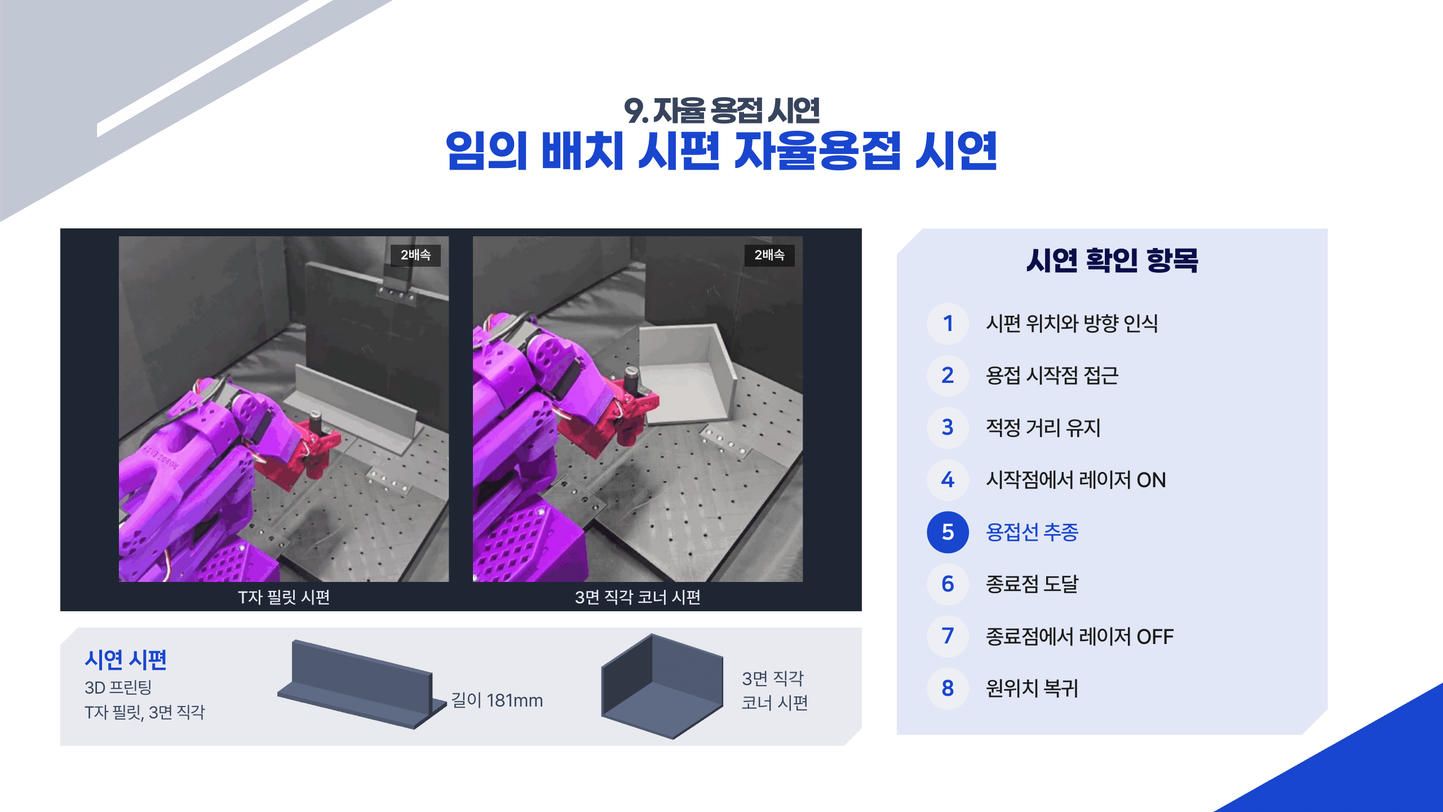
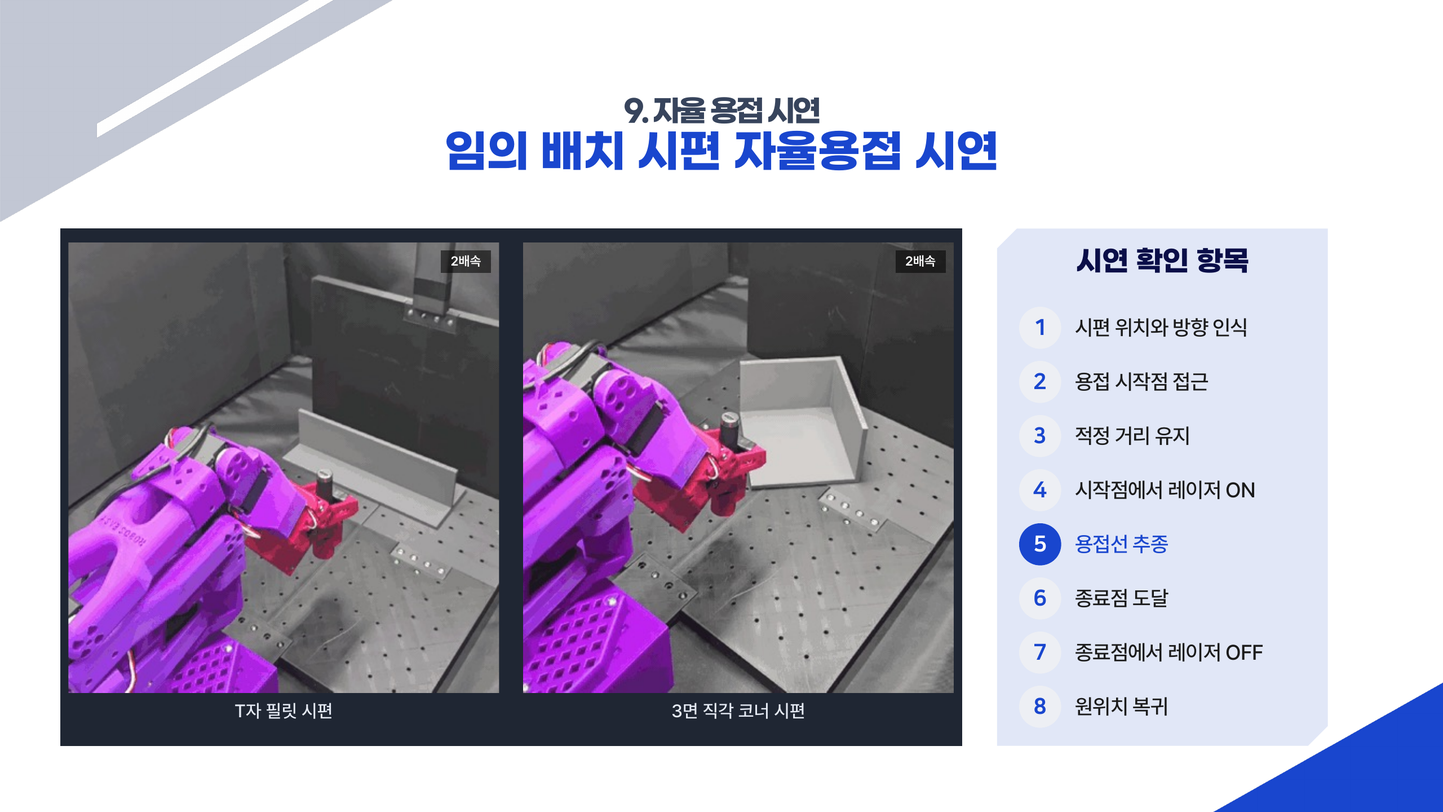
표지와 소개 페이지에 팀 이름 '뉴트로 아크' 추가, 시연 장(22장) 영상 확대
22장은 아래 시연 시편 칸을 빼고 그 자리까지 영상을 키워 영상 위치(오버레이)도 새로 맞춤.

diff --git a/index.html b/index.html
@@ -3,7 +3,7 @@
 <head>
 <meta charset="utf-8">
 <meta name="viewport" content="width=device-width, initial-scale=1">
-<title>숙련 용접사 패턴을 모사한 강구조물 용접 로봇 | 2026 IRC 지능로봇대회</title>
+<title>숙련 용접사 패턴을 모사한 강구조물 용접 로봇 | 팀 뉴트로 아크 | 2026 IRC 지능로봇대회</title>
 <style>
   html, body { margin: 0; height: 100%; background: #111; overflow: hidden; }
   body { font-family: -apple-system, "Apple SD Gothic Neo", sans-serif; }
@@ -49,58 +49,58 @@
 </head>
 <body>
 <main class="stage" id="stage">
-  <img class="slide" src="deck/final/01.png?v=11131055" alt="2026 IRC 지능로봇대회 매니퓰레이터 종목. 거친 현장의 혁신. 숙련 용접사 패턴을 모사한 강구조물 용접 로봇. 손태산, 김광빈, 김동희, 왕혜영">
-  <img class="slide" src="deck/final/02.png?v=11131055" alt="목차" loading="lazy">
-  <img class="slide" src="deck/final/03.png?v=11131055" alt="1. 프로젝트 개요. 숙련 용접사 패턴을 모사한 강구조물 용접 로봇. 왼쪽은 코너 시편의 용접선을 초록 레이저로 따라가는 로봇 사진" loading="lazy">
-  <img class="slide" src="deck/final/04.png?v=11131055" alt="2. 프로젝트 수행 배경: 정밀 특수공정 용접의 품질, 인력, 안전 위기. WPS 필수 제어 변수 20개 이상, 숙련 의존 정밀공정, 연령별 인력(20대 11만, 30대 27만, 40대 45만, 50대 65만, 60대 이상 46만), 용접사 평균 55세, 시공 부실과 안전 사고" loading="lazy">
-  <img class="slide" src="deck/final/05.png?v=11131055" alt="2. 프로젝트 수행 배경: 강재 적용 확대와 현장 용접 경쟁력. 고부가가치 강재 개발, 현장 용접과 시공성 확보, 적용 경쟁력 향상, 강재 적용시장 확대. 강교량 강주탑 단면도와 BOX, 강구조 건축 벽체 현장 용접 사진" loading="lazy">
-  <img class="slide" src="deck/final/06.png?v=11131055" alt="2. 프로젝트 수행 배경: 건설현장 자동 용접의 현재 기술. 수직 타워 레일식(상용화), 수평 타워 레일식(현장 적용), 원자력 압력배관 오비탈 용접(현장 적용), 수직 자동 TIG(개발 진행 중)" loading="lazy">
-  <img class="slide" src="deck/final/07.png?v=11131055" alt="2. 프로젝트 수행 배경: 센서 기반 적응형(Adaptive) 용접으로 발전. 레이저 센싱, 형상 측정, 경로 보정, 정밀 용접. 협동로봇과 레이저 센서, 레일식 수직 자동용접 현장 사진" loading="lazy">
-  <img class="slide" src="deck/final/08.png?v=11131055" alt="2. 프로젝트 수행 배경: 왜 Physical AI인가. 센서는 정밀하게 측정하고 Physical AI는 복합 상황을 판단. 한계는 두꺼운 다층 용접의 다음 패스 판단, 전체 상황 인식과 용접 구역 판단" loading="lazy">
-  <img class="slide" src="deck/final/09.png?v=11131055" alt="2. 프로젝트 수행 배경: Physical AI, 이제 건설현장으로. 기존 VLA 연구는 정형화된 실내 환경, 우리가 도전하는 건설현장은 비정형 강구조물 용접. 열악한 환경, 기술개발의 사각지대" loading="lazy">
-  <img class="slide" src="deck/final/10.png?v=11131055" alt="2. 프로젝트 수행 배경: 숙련 기술의 단절과 기존 자동용접의 한계. 실내 철골 제작공장 자동용접 사진, 강교량 야외 건설현장 사진" loading="lazy">
-  <img class="slide" src="deck/final/11.png?v=11131055" alt="3. 프로젝트 수행 필요성: 숙련 기술의 계승과 비정형 환경 대응을 위한 자율용접 기술의 필요성" loading="lazy">
+  <img class="slide" src="deck/final/01.png?v=11131114" alt="2026 IRC 지능로봇대회 매니퓰레이터 종목. 거친 현장의 혁신. 숙련 용접사 패턴을 모사한 강구조물 용접 로봇. 팀 뉴트로 아크: 손태산, 김광빈, 김동희, 왕혜영">
+  <img class="slide" src="deck/final/02.png?v=11131114" alt="목차" loading="lazy">
+  <img class="slide" src="deck/final/03.png?v=11131114" alt="1. 프로젝트 개요. 숙련 용접사 패턴을 모사한 강구조물 용접 로봇. 왼쪽은 코너 시편의 용접선을 초록 레이저로 따라가는 로봇 사진" loading="lazy">
+  <img class="slide" src="deck/final/04.png?v=11131114" alt="2. 프로젝트 수행 배경: 정밀 특수공정 용접의 품질, 인력, 안전 위기. WPS 필수 제어 변수 20개 이상, 숙련 의존 정밀공정, 연령별 인력(20대 11만, 30대 27만, 40대 45만, 50대 65만, 60대 이상 46만), 용접사 평균 55세, 시공 부실과 안전 사고" loading="lazy">
+  <img class="slide" src="deck/final/05.png?v=11131114" alt="2. 프로젝트 수행 배경: 강재 적용 확대와 현장 용접 경쟁력. 고부가가치 강재 개발, 현장 용접과 시공성 확보, 적용 경쟁력 향상, 강재 적용시장 확대. 강교량 강주탑 단면도와 BOX, 강구조 건축 벽체 현장 용접 사진" loading="lazy">
+  <img class="slide" src="deck/final/06.png?v=11131114" alt="2. 프로젝트 수행 배경: 건설현장 자동 용접의 현재 기술. 수직 타워 레일식(상용화), 수평 타워 레일식(현장 적용), 원자력 압력배관 오비탈 용접(현장 적용), 수직 자동 TIG(개발 진행 중)" loading="lazy">
+  <img class="slide" src="deck/final/07.png?v=11131114" alt="2. 프로젝트 수행 배경: 센서 기반 적응형(Adaptive) 용접으로 발전. 레이저 센싱, 형상 측정, 경로 보정, 정밀 용접. 협동로봇과 레이저 센서, 레일식 수직 자동용접 현장 사진" loading="lazy">
+  <img class="slide" src="deck/final/08.png?v=11131114" alt="2. 프로젝트 수행 배경: 왜 Physical AI인가. 센서는 정밀하게 측정하고 Physical AI는 복합 상황을 판단. 한계는 두꺼운 다층 용접의 다음 패스 판단, 전체 상황 인식과 용접 구역 판단" loading="lazy">
+  <img class="slide" src="deck/final/09.png?v=11131114" alt="2. 프로젝트 수행 배경: Physical AI, 이제 건설현장으로. 기존 VLA 연구는 정형화된 실내 환경, 우리가 도전하는 건설현장은 비정형 강구조물 용접. 열악한 환경, 기술개발의 사각지대" loading="lazy">
+  <img class="slide" src="deck/final/10.png?v=11131114" alt="2. 프로젝트 수행 배경: 숙련 기술의 단절과 기존 자동용접의 한계. 실내 철골 제작공장 자동용접 사진, 강교량 야외 건설현장 사진" loading="lazy">
+  <img class="slide" src="deck/final/11.png?v=11131114" alt="3. 프로젝트 수행 필요성: 숙련 기술의 계승과 비정형 환경 대응을 위한 자율용접 기술의 필요성" loading="lazy">
   <div class="slide">
-    <img src="deck/final/12.png?v=11131055" alt="4. 개발 목표 및 차별성: 룰 베이스를 넘어 숙련 행동 학습으로. OPTi3 용접로봇 전시 시연과 실제 아크 용접 영상, 기존 룰 베이스와 본 프로젝트 비교, 최종 개발 목표" loading="lazy">
+    <img src="deck/final/12.png?v=11131114" alt="4. 개발 목표 및 차별성: 룰 베이스를 넘어 숙련 행동 학습으로. OPTi3 용접로봇 전시 시연과 실제 아크 용접 영상, 기존 룰 베이스와 본 프로젝트 비교, 최종 개발 목표" loading="lazy">
     <!-- PPT 12장 영상 자리(x 60/468, y 270, 392×294pt / 1440×810pt)에 맞춰 올린 6초~20초 구간 GIF -->
-    <img class="clip" style="left:4.1667%; top:33.333%; width:27.222%; height:36.296%;" src="deck/img/opti3_demo.gif?v=11131055" alt="OPTi3 전시 시연 6초에서 20초 구간" loading="lazy">
-    <img class="clip" style="left:32.5%; top:33.333%; width:27.222%; height:36.296%;" src="deck/img/opti3_arc.gif?v=11131055" alt="OPTi3 실제 아크 용접 6초에서 20초 구간" loading="lazy">
+    <img class="clip" style="left:4.1667%; top:33.333%; width:27.222%; height:36.296%;" src="deck/img/opti3_demo.gif?v=11131114" alt="OPTi3 전시 시연 6초에서 20초 구간" loading="lazy">
+    <img class="clip" style="left:32.5%; top:33.333%; width:27.222%; height:36.296%;" src="deck/img/opti3_arc.gif?v=11131114" alt="OPTi3 실제 아크 용접 6초에서 20초 구간" loading="lazy">
   </div>
-  <img class="slide" src="deck/final/13.png?v=11131055" alt="5. 개발 대상 및 자율 작업 시나리오: 수평 접합선에 대응하는 자율용접 작업 구현. 3면 직각 시편과 T형 필릿 시편" loading="lazy">
-  <img class="slide" src="deck/final/14.png?v=11131055" alt="6. 시스템 구성 및 하드웨어 설계: 자율용접 로봇 시스템 아키텍처. 영상은 V4L2로 캡처해 ZMQ로 나눠 주고, YOLO가 판 종류를 판정해 ACT 정책을 고르며 용접선 끝점을 표시함. 그 영상과 손목 영상으로 ACT 정책이 다음 동작을 냄. 손 검출 시 정지, 진행 표시와 영상은 FastAPI 웹 대시보드로" loading="lazy">
-  <img class="slide" src="deck/final/15.png?v=11131055" alt="6. 시스템 구성 및 하드웨어 설계: 역할을 나눈 세 가지 AI. YOLO 용접선 검출(판 종류 판정과 정책 선택, 끝점 표시), ACT 모방학습(포스코이앤씨 손태산 용접기술사가 텔레오퍼레이션으로 쌓은 용접 행동 데이터로 학습, 판 종류별 정책으로 제어), 손 검출 인터록(안전)" loading="lazy">
-  <img class="slide" src="deck/final/16.png?v=11131055" alt="6. 시스템 구성 및 하드웨어 설계: 하드웨어 설계. SolidWorks 조립 기반 6축 매니퓰레이터와 레이저 엔드이펙터 렌더, 엔드이펙터 CAD, 매니퓰레이터, 엔드이펙터, 카메라, 개선 내용" loading="lazy">
-  <img class="slide" src="deck/final/17.png?v=11131055" alt="6. 시스템 구성 및 하드웨어 설계: 직접 개선한 기술. 엔드이펙터 설계 변천 v1, v2, v3, 최종 레이저 일체형" loading="lazy">
+  <img class="slide" src="deck/final/13.png?v=11131114" alt="5. 개발 대상 및 자율 작업 시나리오: 수평 접합선에 대응하는 자율용접 작업 구현. 3면 직각 시편과 T형 필릿 시편" loading="lazy">
+  <img class="slide" src="deck/final/14.png?v=11131114" alt="6. 시스템 구성 및 하드웨어 설계: 자율용접 로봇 시스템 아키텍처. 영상은 V4L2로 캡처해 ZMQ로 나눠 주고, YOLO가 판 종류를 판정해 ACT 정책을 고르며 용접선 끝점을 표시함. 그 영상과 손목 영상으로 ACT 정책이 다음 동작을 냄. 손 검출 시 정지, 진행 표시와 영상은 FastAPI 웹 대시보드로" loading="lazy">
+  <img class="slide" src="deck/final/15.png?v=11131114" alt="6. 시스템 구성 및 하드웨어 설계: 역할을 나눈 세 가지 AI. YOLO 용접선 검출(판 종류 판정과 정책 선택, 끝점 표시), ACT 모방학습(포스코이앤씨 손태산 용접기술사가 텔레오퍼레이션으로 쌓은 용접 행동 데이터로 학습, 판 종류별 정책으로 제어), 손 검출 인터록(안전)" loading="lazy">
+  <img class="slide" src="deck/final/16.png?v=11131114" alt="6. 시스템 구성 및 하드웨어 설계: 하드웨어 설계. SolidWorks 조립 기반 6축 매니퓰레이터와 레이저 엔드이펙터 렌더, 엔드이펙터 CAD, 매니퓰레이터, 엔드이펙터, 카메라, 개선 내용" loading="lazy">
+  <img class="slide" src="deck/final/17.png?v=11131114" alt="6. 시스템 구성 및 하드웨어 설계: 직접 개선한 기술. 엔드이펙터 설계 변천 v1, v2, v3, 최종 레이저 일체형" loading="lazy">
   <div class="slide">
-    <img src="deck/final/18.png?v=11131055" alt="7. 실시간 작업 모니터링: 웹 대시보드로 보는 영상과 로봇 상태" loading="lazy">
+    <img src="deck/final/18.png?v=11131114" alt="7. 실시간 작업 모니터링: 웹 대시보드로 보는 영상과 로봇 상태" loading="lazy">
     <!-- PPT 18장 대시보드 카메라 칸에 올린 실제 화면 녹화 GIF(코너 시편, 3배속) -->
-    <img class="clip" style="left:4.7222%; top:35.0617%; width:25.9722%; height:25.9259%;" src="deck/img/corner_dash_top.gif?v=11131055" alt="상단 카메라 실제 화면. 코너 시편 용접선 두 개가 파란색에서 빨간색으로 바뀜, 3배속" loading="lazy">
-    <img class="clip" style="left:31.8056%; top:35.0617%; width:25.9722%; height:25.9259%;" src="deck/img/corner_dash_wrist.gif?v=11131055" alt="손목 카메라 실제 화면. 시편 위 초록 레이저 점, 3배속" loading="lazy">
+    <img class="clip" style="left:4.7222%; top:35.0617%; width:25.9722%; height:25.9259%;" src="deck/img/corner_dash_top.gif?v=11131114" alt="상단 카메라 실제 화면. 코너 시편 용접선 두 개가 파란색에서 빨간색으로 바뀜, 3배속" loading="lazy">
+    <img class="clip" style="left:31.8056%; top:35.0617%; width:25.9722%; height:25.9259%;" src="deck/img/corner_dash_wrist.gif?v=11131114" alt="손목 카메라 실제 화면. 시편 위 초록 레이저 점, 3배속" loading="lazy">
     <span class="camlabel" style="left:4.7222%; top:57.5309%; width:25.9722%; height:3.4568%;">상단 카메라<b>LIVE</b></span>
     <span class="camlabel" style="left:31.8056%; top:57.5309%; width:25.9722%; height:3.4568%;">손목 카메라<b>LIVE</b></span>
     <span class="tag" style="left:26.6667%; top:36.0494%; width:3.4722%; height:2.7160%;">3배속</span>
     <span class="tag" style="left:53.7500%; top:36.0494%; width:3.4722%; height:2.7160%;">3배속</span>
   </div>
   <div class="slide">
-    <img src="deck/final/19.png?v=11131055" alt="7. 실시간 작업 모니터링: YOLO 용접선 검출과 진행 표시, 성공 판정 기준" loading="lazy">
+    <img src="deck/final/19.png?v=11131114" alt="7. 실시간 작업 모니터링: YOLO 용접선 검출과 진행 표시, 성공 판정 기준" loading="lazy">
     <!-- PPT 19장 가운데 칸(진행 중)에 올린 2배속 GIF -->
-    <img class="clip" style="left:34.0278%; top:28.1481%; width:27.7778%; height:37.0370%;" src="deck/img/t_yolo_progress.gif?v=11131055" alt="T자 시편 상단 카메라 화면. 레이저가 지나간 구간의 용접선이 파란색에서 빨간색으로 바뀜, 2배속" loading="lazy">
+    <img class="clip" style="left:34.0278%; top:28.1481%; width:27.7778%; height:37.0370%;" src="deck/img/t_yolo_progress.gif?v=11131114" alt="T자 시편 상단 카메라 화면. 레이저가 지나간 구간의 용접선이 파란색에서 빨간색으로 바뀜, 2배속" loading="lazy">
     <span class="tag" style="left:57.7778%; top:29.1358%; width:3.4722%; height:2.7160%;">2배속</span>
   </div>
-  <img class="slide" src="deck/final/20.png?v=11131055" alt="7. 실시간 작업 모니터링: YOLO 추론 최적화로 2.1배 가속. PyTorch에서 ONNX, TensorRT FP16 변환, 1회 추론 시간 중앙값 8.1 ms에서 3.8 ms, 정확도 유지, ACT 정책 변환 예정" loading="lazy">
-  <img class="slide" src="deck/final/21.png?v=11131055" alt="8. ACT 기반 모방학습 및 자율 제어: 용접기술사의 텔레오퍼레이션에서 자율 실행까지. 포스코이앤씨 손태산 용접기술사가 텔레오퍼레이션으로 직접 쌓은 용접 행동 데이터로 학습. 텔레오퍼레이션, 기록, 판 종류별 ACT 학습, 자율 실행. ACT는 동작을 묶음으로 예측" loading="lazy">
+  <img class="slide" src="deck/final/20.png?v=11131114" alt="7. 실시간 작업 모니터링: YOLO 추론 최적화로 2.1배 가속. PyTorch에서 ONNX, TensorRT FP16 변환, 1회 추론 시간 중앙값 8.1 ms에서 3.8 ms, 정확도 유지, ACT 정책 변환 예정" loading="lazy">
+  <img class="slide" src="deck/final/21.png?v=11131114" alt="8. ACT 기반 모방학습 및 자율 제어: 용접기술사의 텔레오퍼레이션에서 자율 실행까지. 포스코이앤씨 손태산 용접기술사가 텔레오퍼레이션으로 직접 쌓은 용접 행동 데이터로 학습. 텔레오퍼레이션, 기록, 판 종류별 ACT 학습, 자율 실행. ACT는 동작을 묶음으로 예측" loading="lazy">
   <div class="slide">
-    <img src="deck/final/22.png?v=11131055" alt="9. 자율 용접 시연: 임의 배치 시편 자율용접 시연, 확인 항목 8개, 시연 시편(T자 필릿, 3면 직각)" loading="lazy">
+    <img src="deck/final/22.png?v=11131114" alt="9. 자율 용접 시연: 임의 배치 시편 자율용접 시연. T자 필릿 시편과 3면 직각 코너 시편 영상(2배속), 시연 확인 항목 8개" loading="lazy">
     <!-- PPT 22장 시연 영상 자리(1440×810pt 기준)에 올린 2배속 GIF와 배속 표시 -->
-    <img class="clip" style="left:8.2509%; top:29.1358%; width:22.8602%; height:42.4691%;" src="deck/img/t_demo.gif?v=11131055" alt="T자 필릿 시편 자율용접 시연, 2배속" loading="lazy">
-    <img class="clip" style="left:32.7778%; top:29.1358%; width:22.8602%; height:42.4691%;" src="deck/img/corner_demo.gif?v=11131055" alt="3면 직각 코너 시편 자율용접 시연, 2배속" loading="lazy">
-    <span class="tag" style="left:27.0833%; top:30.1235%; width:3.4722%; height:2.7160%;">2배속</span>
-    <span class="tag" style="left:51.6102%; top:30.1235%; width:3.4722%; height:2.7160%;">2배속</span>
+    <img class="clip" style="left:4.7455%; top:29.8765%; width:29.8379%; height:55.4321%;" src="deck/img/t_demo.gif?v=11131114" alt="T자 필릿 시편 자율용접 시연, 2배속" loading="lazy">
+    <img class="clip" style="left:36.2500%; top:29.8765%; width:29.8379%; height:55.4321%;" src="deck/img/corner_demo.gif?v=11131114" alt="3면 직각 코너 시편 자율용접 시연, 2배속" loading="lazy">
+    <span class="tag" style="left:30.5556%; top:30.8642%; width:3.4722%; height:2.7160%;">2배속</span>
+    <span class="tag" style="left:62.0601%; top:30.8642%; width:3.4722%; height:2.7160%;">2배속</span>
   </div>
-  <img class="slide" src="deck/final/23.png?v=11131055" alt="9. 자율 용접 시연: 성공 판정 기준. 시편 인식, 시작점 접근, 토치 거리 유지, 레이저 ON, 용접선 추종, 종료점 도달, 레이저 OFF, 원위치 복귀의 8개 항목을 모두 통과해야 성공. 용접선 추종은 경로 이탈 5mm 이하와 용접선의 90% 이상이 빨간색으로 바뀌는 것" loading="lazy">
-  <img class="slide" src="deck/final/24.png?v=11131055" alt="9. 자율 용접 시연: 시연 결과. 학습한 배치 40회 중 39회(97.5%), 처음 보는 배치 40회 중 37회(92.5%) 성공. 성공 기준은 8개 판정 항목을 모두 통과한 시도. 인터록 반응 시간 최대 약 100 ms(계산값)" loading="lazy">
-  <img class="slide" src="deck/final/25.png?v=11131055" alt="10. 결론 및 향후 과제" loading="lazy">
-  <img class="slide" src="deck/final/26.png?v=11131055" alt="10. 결론 및 향후 과제: 한계점과 향후 과제, 홈페이지 QR 코드" loading="lazy">
+  <img class="slide" src="deck/final/23.png?v=11131114" alt="9. 자율 용접 시연: 성공 판정 기준. 시편 인식, 시작점 접근, 토치 거리 유지, 레이저 ON, 용접선 추종, 종료점 도달, 레이저 OFF, 원위치 복귀의 8개 항목을 모두 통과해야 성공. 용접선 추종은 경로 이탈 5mm 이하와 용접선의 90% 이상이 빨간색으로 바뀌는 것" loading="lazy">
+  <img class="slide" src="deck/final/24.png?v=11131114" alt="9. 자율 용접 시연: 시연 결과. 학습한 배치 40회 중 39회(97.5%), 처음 보는 배치 40회 중 37회(92.5%) 성공. 성공 기준은 8개 판정 항목을 모두 통과한 시도. 인터록 반응 시간 최대 약 100 ms(계산값)" loading="lazy">
+  <img class="slide" src="deck/final/25.png?v=11131114" alt="10. 결론 및 향후 과제" loading="lazy">
+  <img class="slide" src="deck/final/26.png?v=11131114" alt="10. 결론 및 향후 과제: 한계점과 향후 과제, 홈페이지 QR 코드" loading="lazy">
 </main>
 
 <div class="bar">

diff --git a/project.html b/project.html
@@ -3,7 +3,7 @@
 <head>
 <meta charset="utf-8">
 <meta name="viewport" content="width=device-width, initial-scale=1">
-<title>숙련 용접사 패턴을 모사한 강구조물 용접 로봇 | 2026 IRC 지능로봇대회</title>
+<title>숙련 용접사 패턴을 모사한 강구조물 용접 로봇 | 팀 뉴트로 아크 | 2026 IRC 지능로봇대회</title>
 <meta name="description" content="숙련 용접사 패턴을 모사한 강구조물 용접 로봇. 숙련 용접사의 시연을 ACT 모방학습으로 배움. 구성, 부품 파일, 학습 방법, 개발 기록.">
 <link rel="stylesheet" href="https://cdn.jsdelivr.net/gh/orioncactus/pretendard@v1.3.9/dist/web/static/pretendard.min.css">
 <style>
@@ -72,7 +72,7 @@
     <span class="tag">2026 IRC 지능로봇대회 매니퓰레이터 종목</span>
     <h1>숙련 용접사 패턴을 모사한<br>강구조물 용접 로봇</h1>
     <p>숙련 용접사의 기술을 데이터로 축적하고, Physical AI로 계승한다</p>
-    <div class="team">손태산, 김광빈, 김동희, 왕혜영</div>
+    <div class="team"><b>팀 뉴트로 아크</b>&nbsp;&nbsp;손태산, 김광빈, 김동희, 왕혜영</div>
     <div class="btns">
       <a class="main" href="index.html">발표 슬라이드 보기</a>
       <a href="#parts">부품 파일 내려받기</a>
@@ -102,7 +102,7 @@
   <h2><small>01</small>무엇을 만들었나</h2>
   <div class="two">
     <figure>
-      <img class="tall" src="project/img/robot_corner_laser.jpg?v=11131055" alt="자체 제작 6축 로봇이 코너 시편의 용접선을 초록 레이저로 따라가는 장면" loading="lazy">
+      <img class="tall" src="project/img/robot_corner_laser.jpg?v=11131114" alt="자체 제작 6축 로봇이 코너 시편의 용접선을 초록 레이저로 따라가는 장면" loading="lazy">
       <figcaption>코너 시편의 용접선을 레이저로 따라가는 자체 제작 6축 로봇</figcaption>
     </figure>
     <div>
@@ -126,7 +126,7 @@
 <section id="system">
   <h2><small>02</small>시스템 구성</h2>
   <figure>
-    <img src="project/img/architecture.png?v=11131055" alt="시스템 구성도. 카메라 영상은 V4L2로 캡처해 ZMQ로 나눠 줌. YOLO가 판 종류를 판정해 ACT 정책을 고르고 용접선 끝점을 표시하며, 그 영상과 손목 카메라 영상이 ACT 정책으로 들어감. 정책의 목표 관절값이 서보 제어를 거쳐 6축 매니퓰레이터와 엔드이펙터로 전달됨. 손 검출 시 정지, 진행 표시와 영상은 FastAPI 웹 대시보드로 전송" loading="lazy">
+    <img src="project/img/architecture.png?v=11131114" alt="시스템 구성도. 카메라 영상은 V4L2로 캡처해 ZMQ로 나눠 줌. YOLO가 판 종류를 판정해 ACT 정책을 고르고 용접선 끝점을 표시하며, 그 영상과 손목 카메라 영상이 ACT 정책으로 들어감. 정책의 목표 관절값이 서보 제어를 거쳐 6축 매니퓰레이터와 엔드이펙터로 전달됨. 손 검출 시 정지, 진행 표시와 영상은 FastAPI 웹 대시보드로 전송" loading="lazy">
   </figure>
   <ul class="plain">
     <li>카메라 2대(상단, 손목) 영상을 V4L2로 직접 캡처해 ZMQ로 여러 프로세스에 나눠 줍니다.</li>
@@ -157,7 +157,7 @@
   <h3>엔드이펙터 출력 파일</h3>
   <div class="two">
     <figure>
-      <img src="project/img/ee_cad.png?v=11131055" alt="최종 레이저 일체형 엔드이펙터 CAD. 서보와 본체, 레이저 포인터를 잡는 집게와 브래킷" loading="lazy">
+      <img src="project/img/ee_cad.png?v=11131114" alt="최종 레이저 일체형 엔드이펙터 CAD. 서보와 본체, 레이저 포인터를 잡는 집게와 브래킷" loading="lazy">
       <figcaption>최종 레이저 일체형 엔드이펙터</figcaption>
     </figure>
     <div>
@@ -181,7 +181,7 @@
   <h2><small>04</small>엔드이펙터 개선 과정</h2>
   <div class="two">
     <figure>
-      <img src="project/img/ee_torch_old.jpg?v=11131055" alt="1차 설계인 OPTi3 축소 토치형 엔드이펙터 CAD. 토치 옆에 레이저와 서보가 달려 있음" loading="lazy">
+      <img src="project/img/ee_torch_old.jpg?v=11131114" alt="1차 설계인 OPTi3 축소 토치형 엔드이펙터 CAD. 토치 옆에 레이저와 서보가 달려 있음" loading="lazy">
       <figcaption>1차 설계: OPTi3 축소 토치형 (토치 단축, 레이저 후퇴 적용 후)</figcaption>
     </figure>
     <div>
@@ -262,26 +262,26 @@
   <p class="lead">임의로 놓은 시편을 로봇이 스스로 찾아 용접선을 따라가는 장면입니다. 휴대폰으로 찍은 영상을 2배속 GIF로 줄였습니다.</p>
   <div class="two">
     <figure>
-      <img src="deck/img/t_demo.gif?v=11131055" alt="T자 필릿 시편 자율용접 시연. 로봇이 일어나 시편에 다가가 초록 레이저로 용접선을 따라감, 2배속" loading="lazy">
+      <img src="deck/img/t_demo.gif?v=11131114" alt="T자 필릿 시편 자율용접 시연. 로봇이 일어나 시편에 다가가 초록 레이저로 용접선을 따라감, 2배속" loading="lazy">
       <figcaption>T자 필릿 시편 (2배속)</figcaption>
     </figure>
     <figure>
-      <img src="deck/img/corner_demo.gif?v=11131055" alt="3면 직각 코너 시편 자율용접 시연. 코너 안쪽 용접선을 초록 레이저로 따라감, 2배속" loading="lazy">
+      <img src="deck/img/corner_demo.gif?v=11131114" alt="3면 직각 코너 시편 자율용접 시연. 코너 안쪽 용접선을 초록 레이저로 따라감, 2배속" loading="lazy">
       <figcaption>3면 직각 코너 시편 (2배속)</figcaption>
     </figure>
   </div>
   <h3>YOLO 용접선 진행 표시 (실제 상단 카메라 화면)</h3>
   <div class="three">
     <figure>
-      <img src="project/img/yolo_before.png?v=11131055" alt="용접 전. 검출된 용접선 전체가 파란색" loading="lazy">
+      <img src="project/img/yolo_before.png?v=11131114" alt="용접 전. 검출된 용접선 전체가 파란색" loading="lazy">
       <figcaption>용접 전: 검출된 용접선 전체가 파란색</figcaption>
     </figure>
     <figure>
-      <img src="deck/img/t_yolo_progress.gif?v=11131055" alt="진행 중. 레이저가 지나간 구간만 빨간색으로 바뀜, 2배속" loading="lazy">
+      <img src="deck/img/t_yolo_progress.gif?v=11131114" alt="진행 중. 레이저가 지나간 구간만 빨간색으로 바뀜, 2배속" loading="lazy">
       <figcaption>진행 중: 레이저가 지나간 구간만 빨간색 (2배속)</figcaption>
     </figure>
     <figure>
-      <img src="project/img/yolo_done.png?v=11131055" alt="완료. 용접선 전 구간이 빨간색" loading="lazy">
+      <img src="project/img/yolo_done.png?v=11131114" alt="완료. 용접선 전 구간이 빨간색" loading="lazy">
       <figcaption>완료: 용접선 전 구간이 빨간색</figcaption>
     </figure>
   </div>
@@ -367,7 +367,7 @@
 
 <footer>
   <div class="wrap">
-    2026 IRC 지능로봇대회 매니퓰레이터 종목 출품작. 손태산, 김광빈, 김동희, 왕혜영<br>
+    2026 IRC 지능로봇대회 매니퓰레이터 종목 출품작. 팀 뉴트로 아크(손태산, 김광빈, 김동희, 왕혜영)<br>
     <a href="index.html">발표 슬라이드</a> &nbsp; <a href="log.html">트러블슈팅 기록</a> &nbsp; <a href="https://github.com/gawbi/irc2026-troubleshooting/issues/new?template=troubleshooting.yml">문제 제보</a>
   </div>
 </footer>
